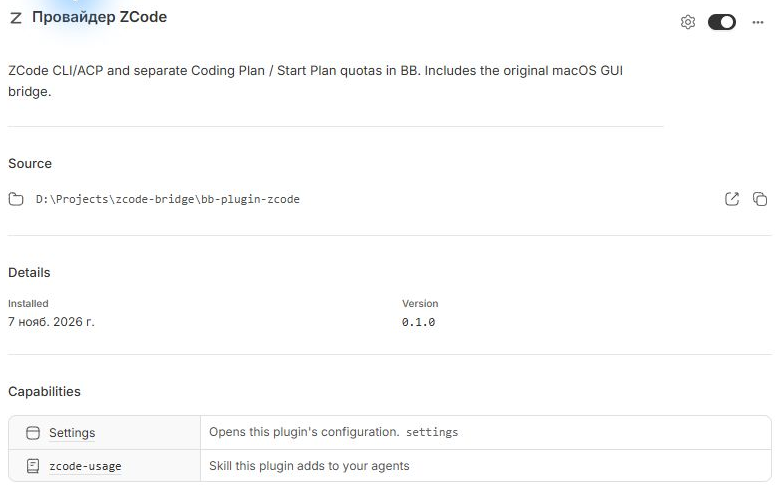
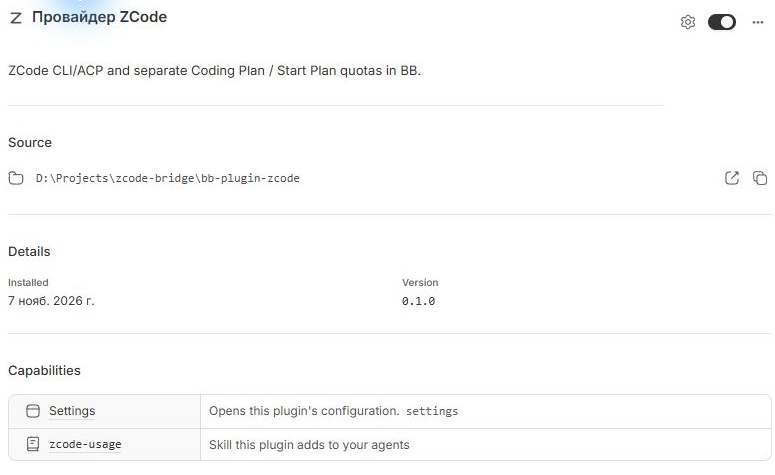
Remove GUI provider references from documentation and plugin description

diff --git a/docs/ru/development.md b/docs/ru/development.md
@@ -9,7 +9,7 @@ npm ci
 npm run verify
 ```
 
-Команда проверяет типы и сгенерированные файлы авторизации через закреплённый модуль, собирает бандлы BB и запускает профильные тесты CLI/ACP, квот и правил тегирования. Фикстуры не отправляют запросы к модели. В `npm test` также входит расширенный набор прежнего моста; он не является контрактом CI для трёх ОС.
+Команда проверяет типы и сгенерированные файлы авторизации через закреплённый модуль, собирает бандлы BB и запускает профильные тесты CLI/ACP, квот и правил тегирования. Фикстуры не отправляют запросы к модели. В `npm test` входят дополнительные тесты; контракт CI для трёх ОС — `npm run verify`.
 
 Workflow `CI` работает на Linux, Windows и macOS с Node 24 и закреплённым BB CLI 0.49.0. Открытый модуль загружается по полному коммиту из `package.json`, затем npm использует этот проверенный локальный клон. Ключ модуля не требуется; pull request из fork может выполнять те же проверки.
 

diff --git a/docs/ru/index.md b/docs/ru/index.md
@@ -37,4 +37,4 @@
 
 Сборка и тесты с фикстурами проходят на Windows, Linux и macOS. Поиск установленного ZCode реализован для Windows и macOS; Linux CI проверяет плагин и синтетический runtime. На Windows проверены аккаунт, каталог, выбор источников и квоты с Desktop 3.17.2, встроенным CLI 0.17.1 и BB 0.49.0. Реальная генерация и работа нативного адаптера на macOS здесь не квалифицированы.
 
-Пока не поддерживаются изображения и аудио, Team Plan, интерактивные вопросы native runtime, управление браузером, собственные профили субагентов, fork/rewind и ручное сжатие контекста. [Прежний GUI-провайдер для macOS](./legacy.md) имеет отдельные требования.
+Пока не поддерживаются изображения и аудио, Team Plan, интерактивные вопросы native runtime, управление браузером, собственные профили субагентов, fork/rewind и ручное сжатие контекста.

diff --git a/docs/ru/configuration.md b/docs/ru/configuration.md
@@ -2,7 +2,7 @@
 
 ## Выберите ZCode CLI
 
-В новом чате BB откройте выбор модели и выберите **ZCode CLI**. ID провайдера — `acp-zcode-cli`. Отдельный **ZCode** / `zcode` — это [прежний GUI-мост для macOS](./legacy.md).
+В новом чате BB откройте выбор модели и выберите **ZCode CLI**. ID провайдера — `acp-zcode-cli`.
 
 ![Модели ZCode CLI с названиями источников в каждой строке](/screenshots/model-picker.png)
 
@@ -27,7 +27,7 @@
 | BB Full | `yolo`. |
 | Явное планирование | `plan`, выбранный через настройки адаптера. |
 
-В запросах разрешений ACP доступны **разрешить один раз** и **отклонить**. Постоянные разрешения не передаются. Окружение прежнего GUI-launcher не управляет CLI-провайдером.
+В запросах разрешений ACP доступны **разрешить один раз** и **отклонить**. Постоянные разрешения не передаются.
 
 ## Страница плагина
 

diff --git a/docs/en/configuration.md b/docs/en/configuration.md
@@ -2,7 +2,7 @@
 
 ## Select ZCode CLI
 
-Open the model picker in a new BB thread and select **ZCode CLI**. The provider ID is `acp-zcode-cli`. The separate **ZCode** / `zcode` GUI provider is the [legacy macOS bridge](./legacy.md).
+Open the model picker in a new BB thread and select **ZCode CLI**. The provider ID is `acp-zcode-cli`.
 
 ![ZCode CLI models grouped by their source prefixes](/screenshots/model-picker.png)
 
@@ -27,7 +27,7 @@ Reasoning choices, such as **Low**, **High** and **Max**, come from the selected
 | BB Full | `yolo`. |
 | Explicit planning | `plan`, when selected through the adapter's configuration. |
 
-ACP tool permissions offer **allow once** and **deny**. Permanent grants are not forwarded. The legacy GUI launcher's environment does not configure the CLI provider.
+ACP tool permissions offer **allow once** and **deny**. Permanent grants are not forwarded.
 
 ## Plugin page
 

diff --git a/docs/en/development.md b/docs/en/development.md
@@ -9,7 +9,7 @@ npm ci
 npm run verify
 ```
 
-This typechecks, checks generated auth files through the pinned module, builds BB bundles and runs focused CLI/ACP, quota and release-policy tests. Fixtures do not send model requests. `npm test` also includes the broader legacy suite and is not the cross-platform CI contract.
+This typechecks, checks generated auth files through the pinned module, builds BB bundles and runs focused CLI/ACP, quota and release-policy tests. Fixtures do not send model requests. `npm test` includes additional tests; the cross-platform CI contract is `npm run verify`.
 
 The `CI` workflow runs on Linux, Windows and macOS with Node 24 and pinned BB CLI 0.49.0. The public module is checked out at the full revision in `package.json`, then npm resolves it from that verified local checkout. No module deploy key is required; fork pull requests can run the same checks.
 

diff --git a/docs/en/index.md b/docs/en/index.md
@@ -37,4 +37,4 @@ The model picker identifies the source in each row: **Coding Plan · Z.ai**, **S
 
 Build and fixture checks pass on Windows, Linux and macOS. Native discovery supports Windows and macOS; Linux CI checks the plugin and synthetic runtime only. Windows account/catalog, source selection and quota collection were checked with ZCode Desktop 3.17.2, bundled CLI 0.17.1 and BB 0.49.0. Real inference and macOS native execution have not been qualified here.
 
-Image/audio input, Team Plan, native interactive questions, browser control, custom subagent profiles, fork/rewind and manual compaction are currently unsupported. The [legacy macOS GUI provider](./legacy.md) is a separate path with different requirements.
+Image/audio input, Team Plan, native interactive questions, browser control, custom subagent profiles, fork/rewind and manual compaction are currently unsupported.

diff --git a/docs/ru/installation.md b/docs/ru/installation.md
@@ -10,8 +10,6 @@
 | Git | Доступен в PATH для загрузки плагина и закреплённой зависимости из открытого репозитория модуля. |
 | Windows | Windows PowerShell 5.1 для настройки прав на папки сессий. |
 
-CLI не требует Python, Swift или разрешения Accessibility. Они нужны [прежнему мосту для macOS](./legacy.md).
-
 ## 1. Скачайте и соберите
 
 Выполните команды в PowerShell на Windows или в терминале macOS:

diff --git a/docs/README.md b/docs/README.md
@@ -18,7 +18,7 @@ Screenshot provenance (7 November 2026):
 - `plugin-installed.png`: a cropped capture of the installed local plugin's
   details, including version 0.1.0.
 - `provider-settings.png`: a cropped capture of the plugin's optional native CLI
-  path field; model and permissions remain chat controls, with no legacy form.
+  path field; model and permissions remain chat controls.
 - `plan-quotas.png`: the user's supplied quota-panel screenshot, copied as-is.
 
 Crops exclude conversation history, account identifiers and unrelated sidebar

diff --git a/docs/en/installation.md b/docs/en/installation.md
@@ -10,8 +10,6 @@
 | Git | Available on PATH to clone the plugin and its pinned public module dependency. |
 | Windows | Windows PowerShell 5.1 for protecting local session directories. |
 
-The CLI path does not require Python, Swift or Accessibility permission. Those belong to the [legacy macOS bridge](./legacy.md).
-
 ## 1. Clone and build
 
 Run the following in PowerShell on Windows or a terminal on macOS:
